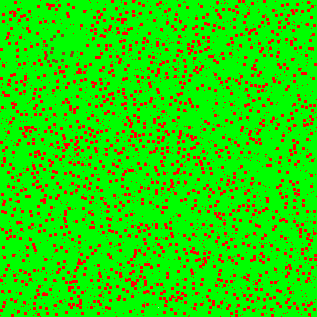
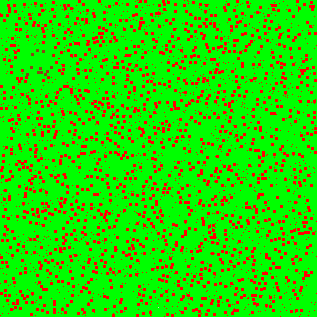
Dijkstra's Algorithm WIP
WIP implementation of Dijkstra's Algorithm. Requires debugging.

Changed region(s): [[0.0, 0.0, 1.0, 1.0]]

diff --git a/worldGenerationFunctions.py b/worldGenerationFunctions.py
@@ -230,7 +230,99 @@ class GameScreen:
                         parent[neighbor] = current
                         
         return None  # No path found
-            
+    
+    def dijkstra(self):
+        obstacle_cluster_types = ["stone", "lava", "water"] # Cluster obstacle types
+        obstacle_single_types = ["wood", "bedrock", "mud", "darkstone", "trimmedGrass"] # Single obstacle types
+        tile_map = self.tile_map
+        rows = len(tile_map)
+        cols = len(tile_map[0])
+        # Dijkstra's calculation weights
+        directions = [(0, 1), (0, -1), (1, 0), (-1, 0)]
+        self.dijkstraDictionary = {}
+        for x in self.settings.get_world_size():
+            for z in self.settings.get_world_size():
+                list = []
+                for (dx, dz) in directions:
+                    if x + dx >= 0 and x + dx <= self.settings.get_world_size() and z + dz >= 0 and z + dz <= worldSettings.get_world_size():
+                        for single_position, obstacleType in self.single_locations:
+                            if (x, z) == single_position:
+                                block_type = obstacle_single_types[obstacleType - 1]
+                                if block_type == "wood":
+                                    list.append(((x + dx, z + dz), 2))
+                                else:
+                                    list.append(((x + dx, z + dz), 5))
+                        for cluster_position, obstacleType in self.cluster_locations:
+                            if (x, z) == cluster_position:
+                                block_type = obstacle_cluster_types[obstacleType - 1]
+                                if block_type == "stone":
+                                    list.append(((x + dx, z + dz), 3))
+                                elif block_type == "water":
+                                    list.append(((x + dx, z + dz), 4))
+                                elif block_type == "lava":
+                                    list.append(((x + dx, z + dz), 6))
+                        list.append(((x + dx, z + dz), random.randint(1, 10)))
+                self.dijkstraDictionary[(x, z)] = list
+
+        start = None
+        goal = []
+        for i in range(rows):
+            for j in range(cols):
+                if tile_map[i][j] == 'P':  # 'P' represents the player
+                    start = (i, j)
+                elif tile_map[i][j] == 'H':  # 'H' represents the home
+                    goal.append((i, j))
+
+        if start is None or goal is None:
+            return None  # Player or home not found
+
+        if start in goal:
+            return None  # Player is already at home
+
+        # Priority queue to store (distance, node)
+        queue = [(0, start)]
+        # Dictionary to store the shortest distance to each node
+        distances = {start: 0}
+        # Dictionary to store the path
+        predecessors = {start: None}
+
+        print("algorithm started")
+        tile_map = self.tile_map
+        self.dijkstraMap = Image.new('RGB', (self.settings.get_world_size(), self.settings.get_world_size()), color=(0, 0, 0, 0))
+        self.colorMap = []
+        draw_minimap(self.dijkstraMap, self.tile_map, self.colorMap, self.settings)
+        self.drawDijkstra = ImageDraw.Draw(self.dijkstraMap)
+        draw = self.drawDijkstra
+
+        while queue:
+            current_distance, current_node = heapq.heappop(queue)
+
+            if current_node in goal:
+                break
+
+            for neighbor, weight in self.dijkstraDictionary.get(current_node, []):
+                distance = current_distance + weight
+
+                if neighbor not in distances or distance < distances[neighbor]:
+                    distances[neighbor] = distance
+                    predecessors[neighbor] = current_node
+                    heapq.heappush(queue, (distance, neighbor))
+
+        self.dijkstraMap.save("minimapAlgorithmVisitedDijkstra.png")
+
+        # Reconstruct the shortest path
+        path = []
+        node = goal
+        while node is not None:
+            path.append(node)
+            node = predecessors[node]
+        path.reverse()
+
+        for (x, z) in path:
+            draw.point((self.settings.get_world_size() - x - 1, z), fill=(0, 0, 255, 255))
+        self.dijkstraMap.save("minimapAlgorithmPathDijkstra.png")
+        return path
+
 # Block class
 class Block(Entity):
     def __init__(self, position=(0, 0, 0), scale=(1, 1, 1), block_type="grass", **kwargs):

diff --git a/main.py b/main.py
@@ -289,7 +289,13 @@ def input(key):
         #game.pathBFS = None  # Reset the path
         #update_blocks_on_path(game, game.pathBFS, "grass") # Remove redstone blocks
         map.texture = "minimapAlgorithmPathDFS.png"  # Update the minimap texture
-
+    elif key == 'j' and mPressed:
+        print("Dijkstra's Algorithm")
+        map.texture = "minimap.png"  # Reset the minimap texture
+        game.path = None  # Reset the path
+        game.path = game.game_screen.dijkstra()  # Compute the path
+        update_blocks_on_path(game, game.path, "snow")  # Place gold blocks
+        map.texture = "minimapAlgorithmPathDijkstra.png"  # Update the minimap texture
     elif key == 'r':
         map.texture = "minimap.png"  # Reset the minimap texture
         if rectangle_entity:
